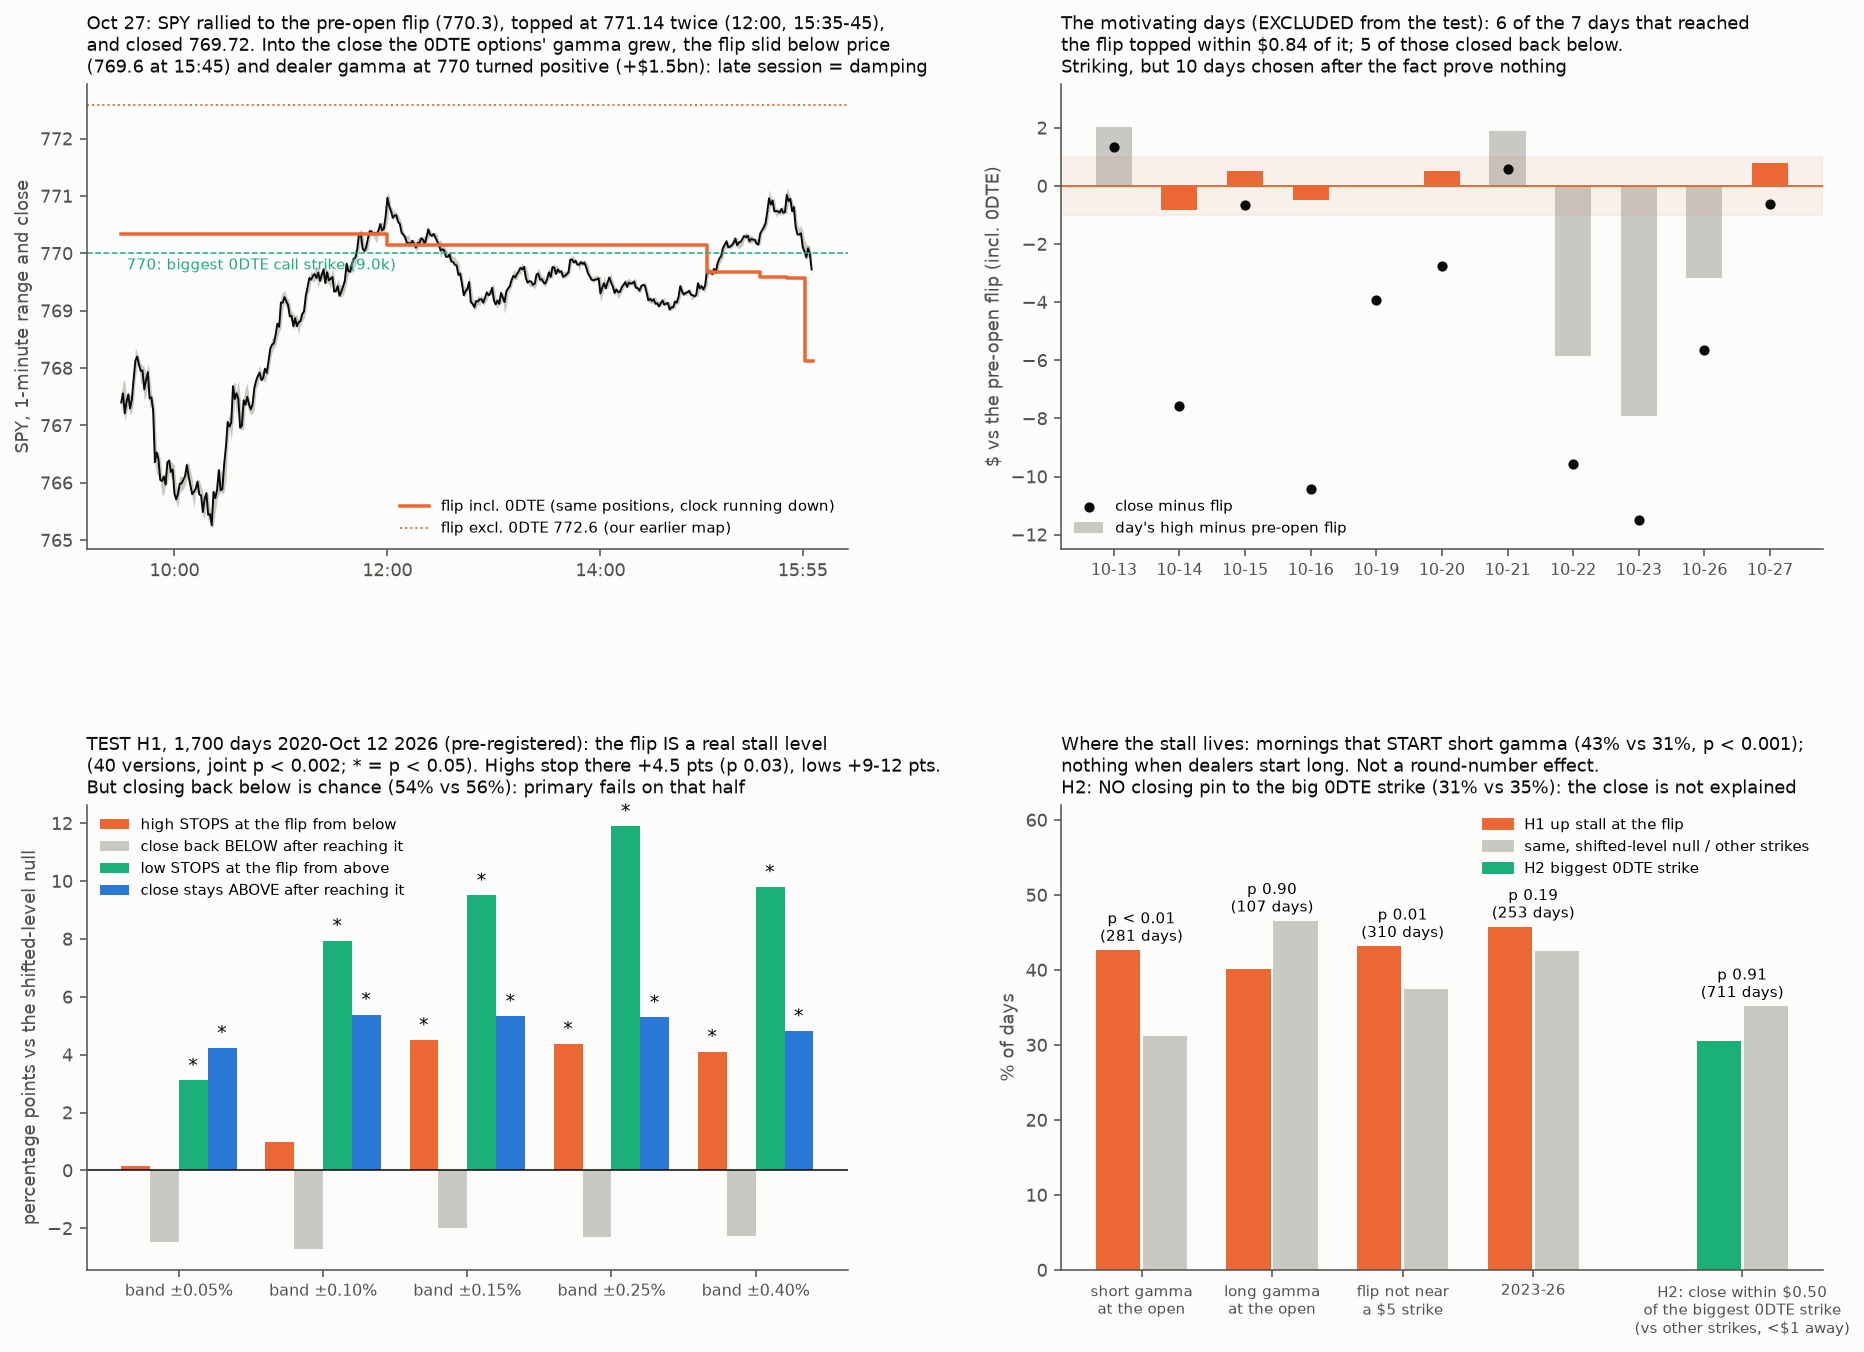
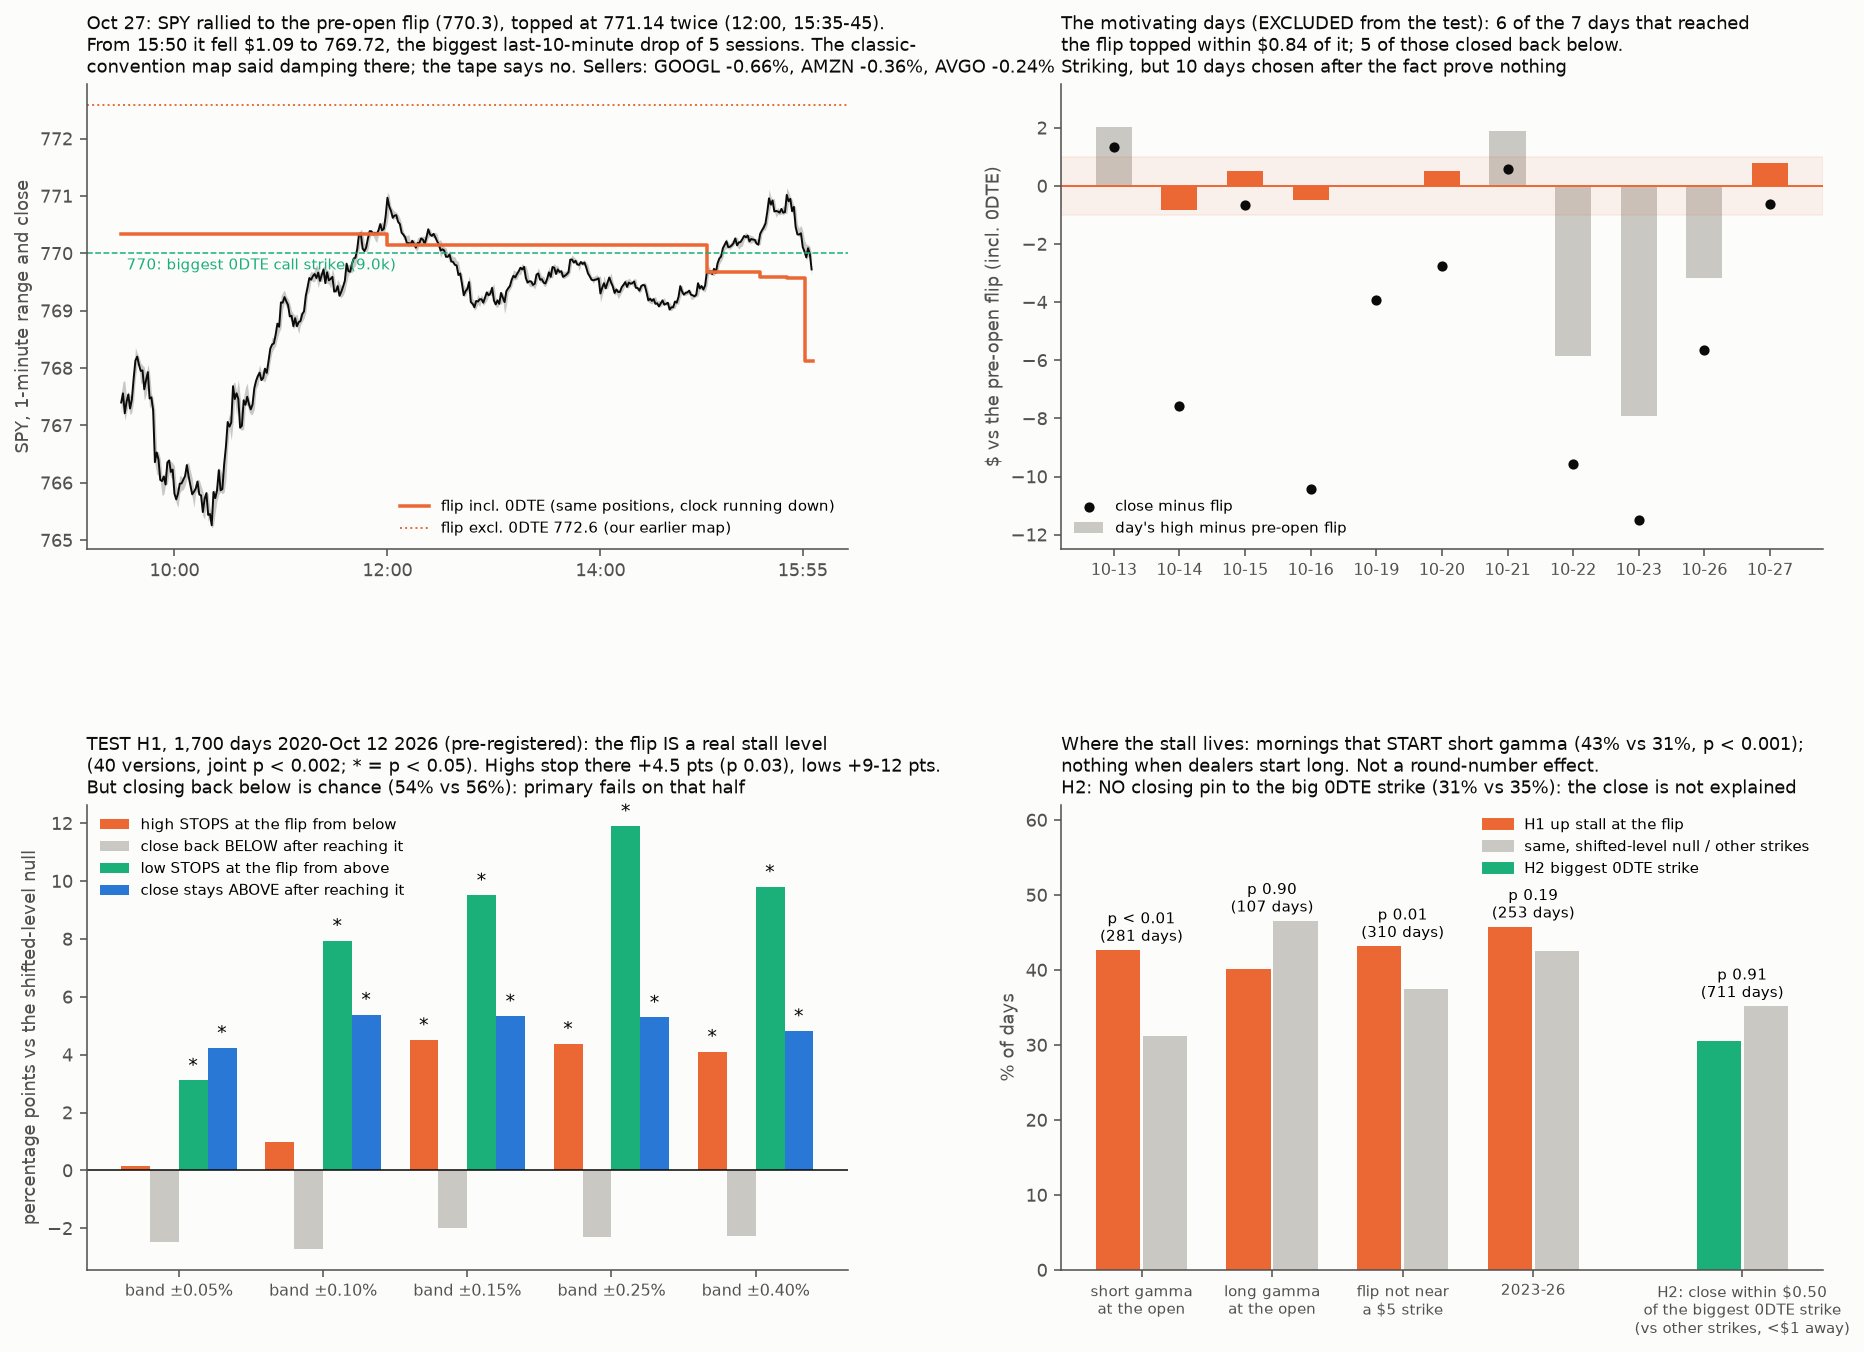
flip-wicks: owner correction - Oct 27 last 10 minutes fell $1.09 (not damped); who sold, convention arithmetic; TODO N3/N4/D3
Claude-Session: https://claude.ai/code/session_01BLeRcE4q4QKts4yCLqRzgv

Changed region(s): [[0.0311, 0.0311, 0.5601, 0.0621]]

diff --git a/research/agents/2026-10-27-flip-wicks/figure.py b/research/agents/2026-10-27-flip-wicks/figure.py
@@ -27,9 +27,9 @@ a.axhline(R["days"][-1]["flip excl 0DTE"], color=ORANGE, lw=1, ls=":", label=f"f
 a.axhline(770, color=GREEN, lw=0.8, ls="--"); a.text(0.05, 769.72, "770: biggest 0DTE call strike (9.0k)", fontsize=7.5, color=GREEN)
 a.set_xticks([0.5, 2.5, 4.5, 6.4], ["10:00", "12:00", "14:00", "15:55"]); a.set_ylabel("SPY, 1-minute range and close")
 a.legend(frameon=False, fontsize=7.5, loc="lower right")
-a.set_title("Oct 27: SPY rallied to the pre-open flip (770.3), topped at 771.14 twice (12:00, 15:35-45),\n"
-            "and closed 769.72. Into the close the 0DTE options' gamma grew, the flip slid below price\n"
-            "(769.6 at 15:45) and dealer gamma at 770 turned positive (+$1.5bn): late session = damping", loc="left", fontsize=9, color=INK)
+a.set_title("Oct 27: SPY rallied to the pre-open flip (770.3), topped at 771.14 twice (12:00, 15:35-45).\n"
+            "From 15:50 it fell $1.09 to 769.72, the biggest last-10-minute drop of 5 sessions. The classic-\n"
+            "convention map said damping there; the tape says no. Sellers: GOOGL -0.66%, AMZN -0.36%, AVGO -0.24%", loc="left", fontsize=9, color=INK)
 # B: motivating days
 b = ax[0, 1]; d = [e for e in R["days"] if "high" in e]
 lab = [e["day"][5:] for e in d]; hv = [e["high - flip"] for e in d]; cv = [e["close - flip"] for e in d]

diff --git a/research/agents/2026-10-27-flip-wicks/README.md b/research/agents/2026-10-27-flip-wicks/README.md
@@ -109,9 +109,32 @@
 
 ## What this says about Oct 27
 * **The 770–771 wicks: consistent with a tested effect.** SPY started the day short gamma (pre-open flip 770.34, above the 767.34 open) and rallied into the flip, where its highs stopped (twice). That is the setting where highs stall at the flip (43% vs 31%).
-* **The close under the flip: not explained by any tested rule.** H1 says the close side is chance. H2 says there is no 0DTE pin. The late-session gamma at 770 did turn positive (+$1.5bn at 15:45), which is a damping description, not a tested predictor.
+* **The close under the flip: not explained by any tested rule.** H1 says the close side is chance. H2 says there is no 0DTE pin. The classic-convention map said the late session was damping; the tape contradicted it (see the correction below).
 * **For trading the level:**
   * Expect the flip to slow a move (above all from above, as support).
   * Don't treat a touch from below as a short signal for the close.
   * A close above the flip is what matters for the next days (spy-gamma-levels Amendment 1).
 * **Wednesday:** the pre-open flip will be rebuilt from Oct 28 OI. Monday's positions put it near 770 with 0DTE (772.5 without).
+
+## Correction (owner: "there was strong last ten min selling. It wasn't sticky like u say")
+The owner is right; the "damping" line above was the map's prediction, not what happened.
+* **The last 10 minutes (Yahoo 1-minute bars):**
+  * SPY went from 770.81 (15:49) to 769.72: **−$1.09 (−0.14%), 18% of the day's range**.
+  * That is the largest last-10-minute drop of the 5 sessions: Oct 21 −0.48, Oct 22 +1.79, Oct 23 −0.35, Oct 26 −0.19.
+  * Volume 3.49M shares (4.5% of the day), with 1.0M in the final minute.
+  * The selling started at **15:50**, when the exchanges publish closing-auction (MOC) imbalances.
+* **Who was sold, 15:50 → close (5-minute bars):**
+  * GOOGL −0.66% (reports Wed), AMZN −0.36% (reports Thu), AVGO −0.24% (the day's leader), NVDA −0.15%.
+  * Equal-weight RSP −0.04%, IWM 0.00%, XLF/XLP about 0.
+  * Narrow, cap-weighted selling of the winners and the names reporting this week, ahead of the FOMC. Not broad selling.
+* **What the 0DTE map implies, by convention** (positions at the Oct 26 close only; same-day 0DTE trades are invisible):
+  * Pure time decay at a fixed price: tiny under either convention (±0.03M shares).
+  * The slide from 770.81 to 769.72 through the 770 (9.0k) and 771 (5.1k) calls:
+    * **classic** (dealers long the calls): dealers **buy** about 0.75M shares (damping);
+    * **all-short** (customers long the calls): dealers **sell** about 1.04M shares, about 30% of the last-10-minute volume (amplifying).
+  * The tape fits the all-short reading for these 0DTE calls, or a sell imbalance large enough to overwhelm classic damping. One day cannot tell which. Signing the trades needs tick data (TODO T1, T2).
+* **Our earlier test of last-half-hour momentum** (forced-flow A2) died, so there is no tested rule for the closing move either way.
+* **Added to TODO:**
+  * N3: last-30-minute continuation vs the 0DTE call/put mix near the price (a convention test on 711 days in hand).
+  * N4: pre-earnings de-risking into the close in mega caps.
+  * D3: closing-auction imbalance data (Databento imbalance feeds).

diff --git a/research/agents/TODO.md b/research/agents/TODO.md
@@ -24,6 +24,8 @@ Every test is pre-registered in its own folder before it runs.
   - Source: [positioning-tests](2026-10-26-positioning-tests/) P1, P4a.
 - [ ] **D2. Order-book depth at round numbers and gamma strikes.** Does resting depth peak at round numbers (Kavajecz & Odders-White) and at the call and put walls? P4b proved highs and lows cluster there; D2 would show the orders themselves.
 
+- [ ] **D3. Closing-auction imbalances.** Use NYSE/Nasdaq imbalance messages (Databento imbalance schema). Does the 15:50 published imbalance explain the last-10-minute move, and does it interact with the 0DTE map? Oct 27's drop began at 15:50.
+
 ### Sierra Chart Package 11 or 12 + Denali CME feed (about $57–67/mo)
 - [ ] **S1. ES futures footprint at SPY gamma levels.** Measure absorption (large volume, little price progress) and delta divergence at the flip, the walls and the pockets, vs equally round placebo levels. ES has one central order book, so this is the cleanest order-flow test of the gamma map.
 
@@ -33,6 +35,8 @@ Every test is pre-registered in its own folder before it runs.
 
 ## Can run now (data in hand)
 - [ ] **N1. SqueezeMetrics GEX vs our engine when they disagree.** Example: on Oct 23 SqueezeMetrics showed +$4.0bn while our engine showed −$8.8bn. Only SqueezeMetrics carries P2; our flip carries the rally-hold result. Test which measure predicts better on the days they disagree.
+- [ ] **N3. Who is long the 0DTE calls? A last-30-minute convention test.** On 711 days, does the 15:30 → close move continue the day's move more when the 0DTE strikes near the price are put-heavy (classic: dealers short gamma) than call-heavy (classic: dealers long gamma)? Classic predicts a difference by call/put mix; all-short predicts momentum scales with total 0DTE gamma regardless of mix. Prompted by Oct 27's last-10-minute drop through the 770 calls. [flip-wicks](2026-10-27-flip-wicks/).
+- [ ] **N4. Pre-earnings de-risking into the close.** Do mega caps underperform in the last 30 minutes of the day before their report, more so after an up day? Oct 27: GOOGL −0.66%, AMZN −0.36% in the last 10 minutes. Hourly bars in hand (51 tickers, Nov 2023 →); earnings dates needed.
 - [ ] **N2. Breakaway-gap rule beyond TSLA.** TSLA breakaway gaps fill less (p 0.04). Pre-register the same rule on the 81-stock panel and SPY/QQQ.
 
 ## Needs time (more events), re-test on schedule
